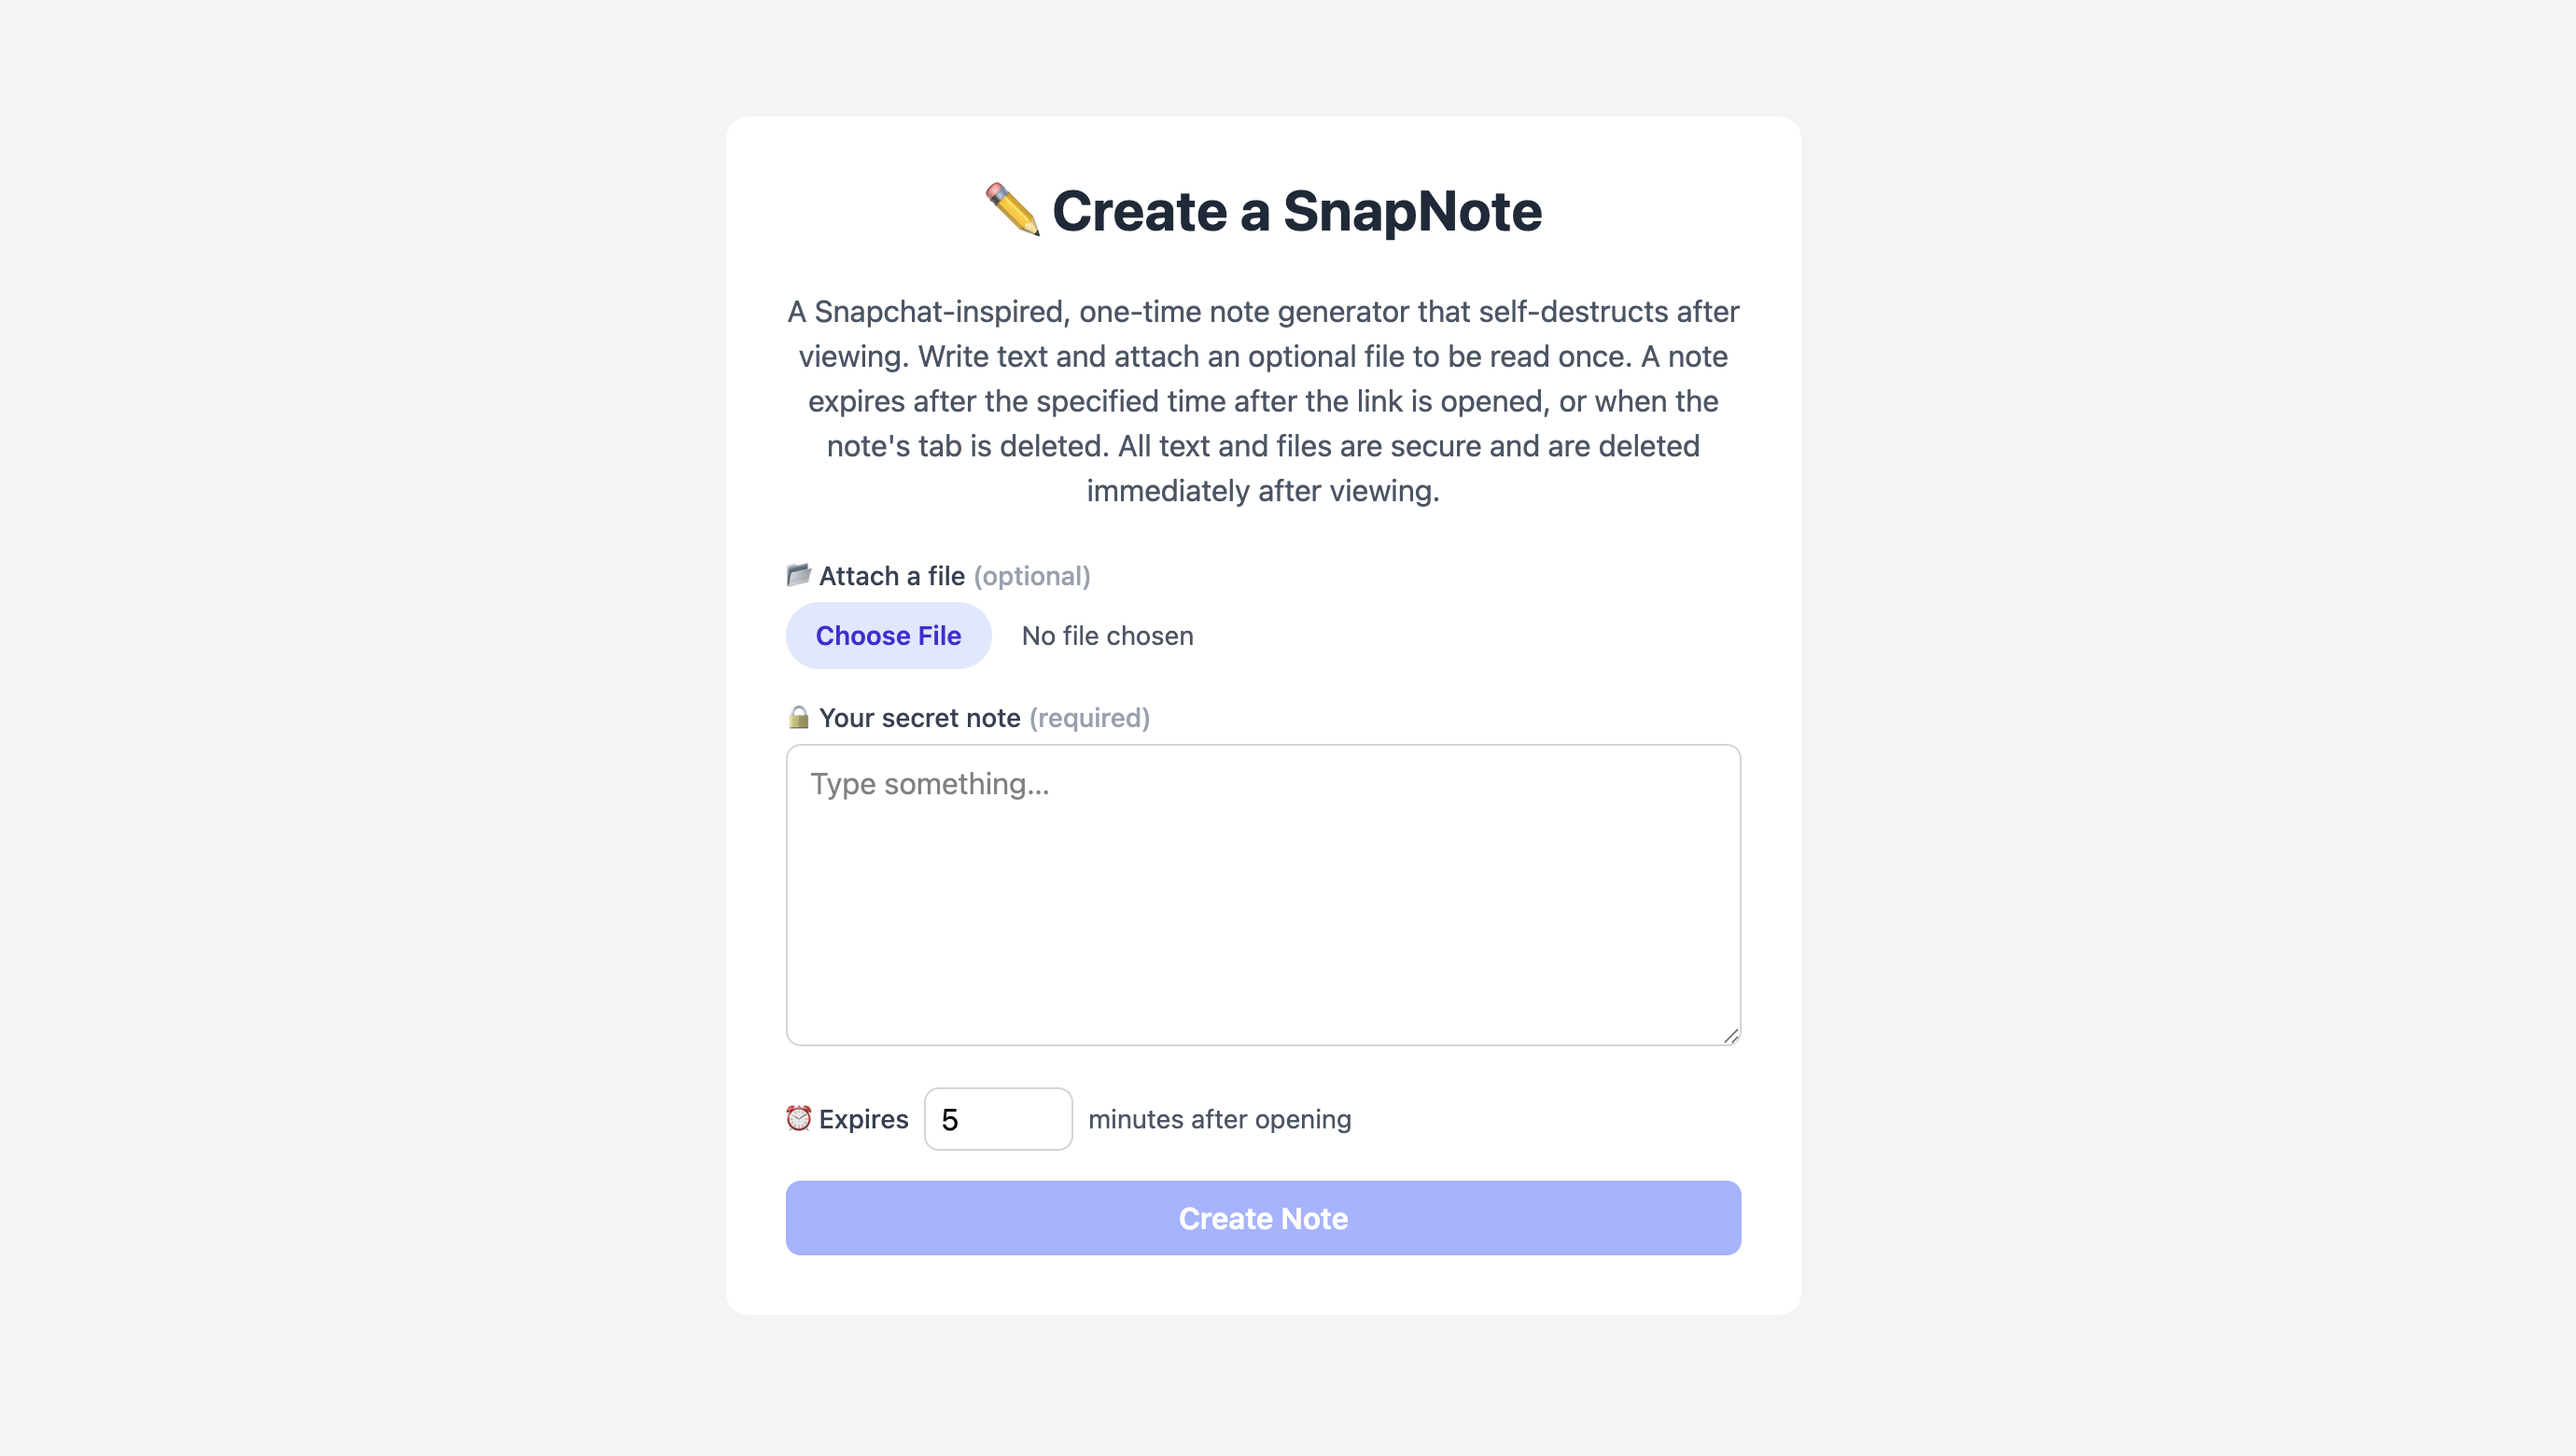
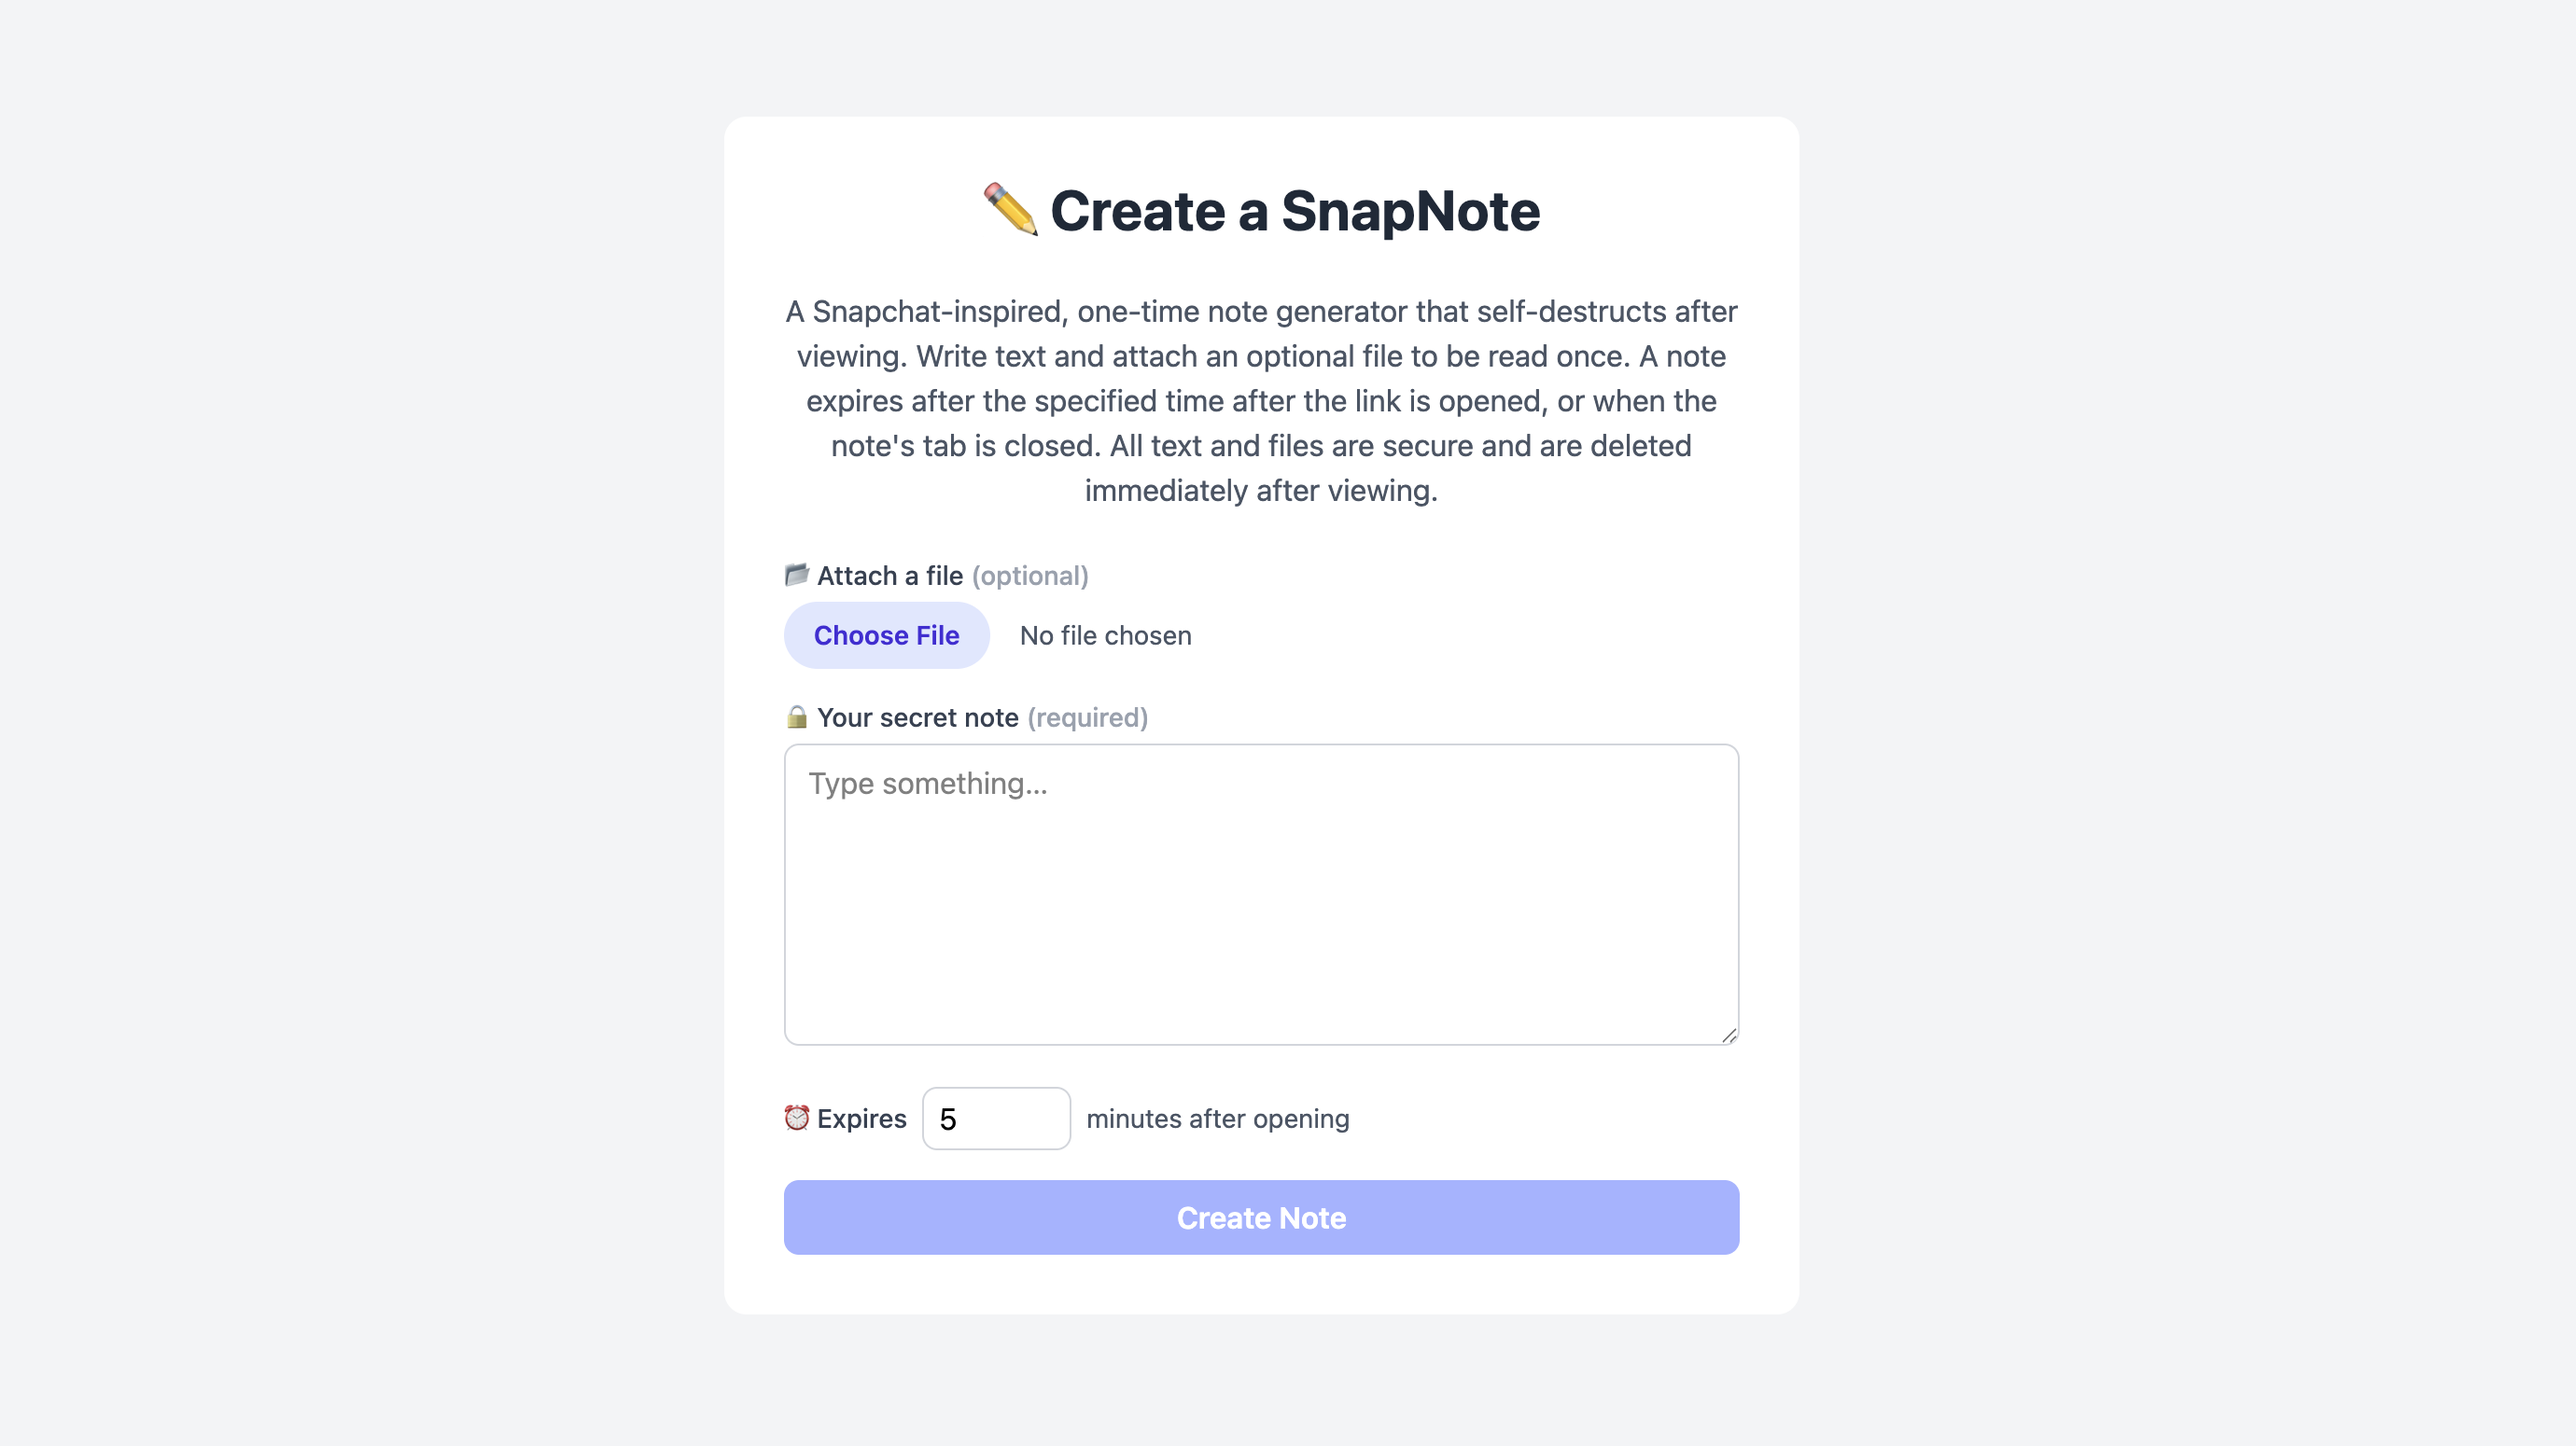
readme

diff --git a/frontend/src/CreateNote.js b/frontend/src/CreateNote.js
@@ -134,7 +134,7 @@ export default function CreateNote() {
             <p className="text-center text-gray-600 italic mb-6">
                 A Snapchat-inspired, one-time note generator that self-destructs after viewing. 
                 Write text and attach an optional file to be read once.
-                A note expires after the specified time after the link is opened, or when the note's tab is deleted.
+                A note expires after the specified time after the link is opened, or when the note's tab is closed.
                 All text and files are secure and are deleted immediately after viewing. 
             </p>
             

diff --git a/README.md b/README.md
@@ -1,7 +1,7 @@
 # SnapNote: One-Time Note Generator
 A Snapchat-inspired, one-time note generator that self-destructs after viewing. 
 
-Write text and attach an optional file to be read once. A note expires after the specified time after the link is opened, or when the note's tab is deleted. All text and files are secure and are deleted immediately after viewing. 
+Write text and attach an optional file to be read once. A note expires after the specified time after the link is opened, or when the note's tab is closed. All text and files are secure and are deleted immediately after viewing. 
 
 ---
 
